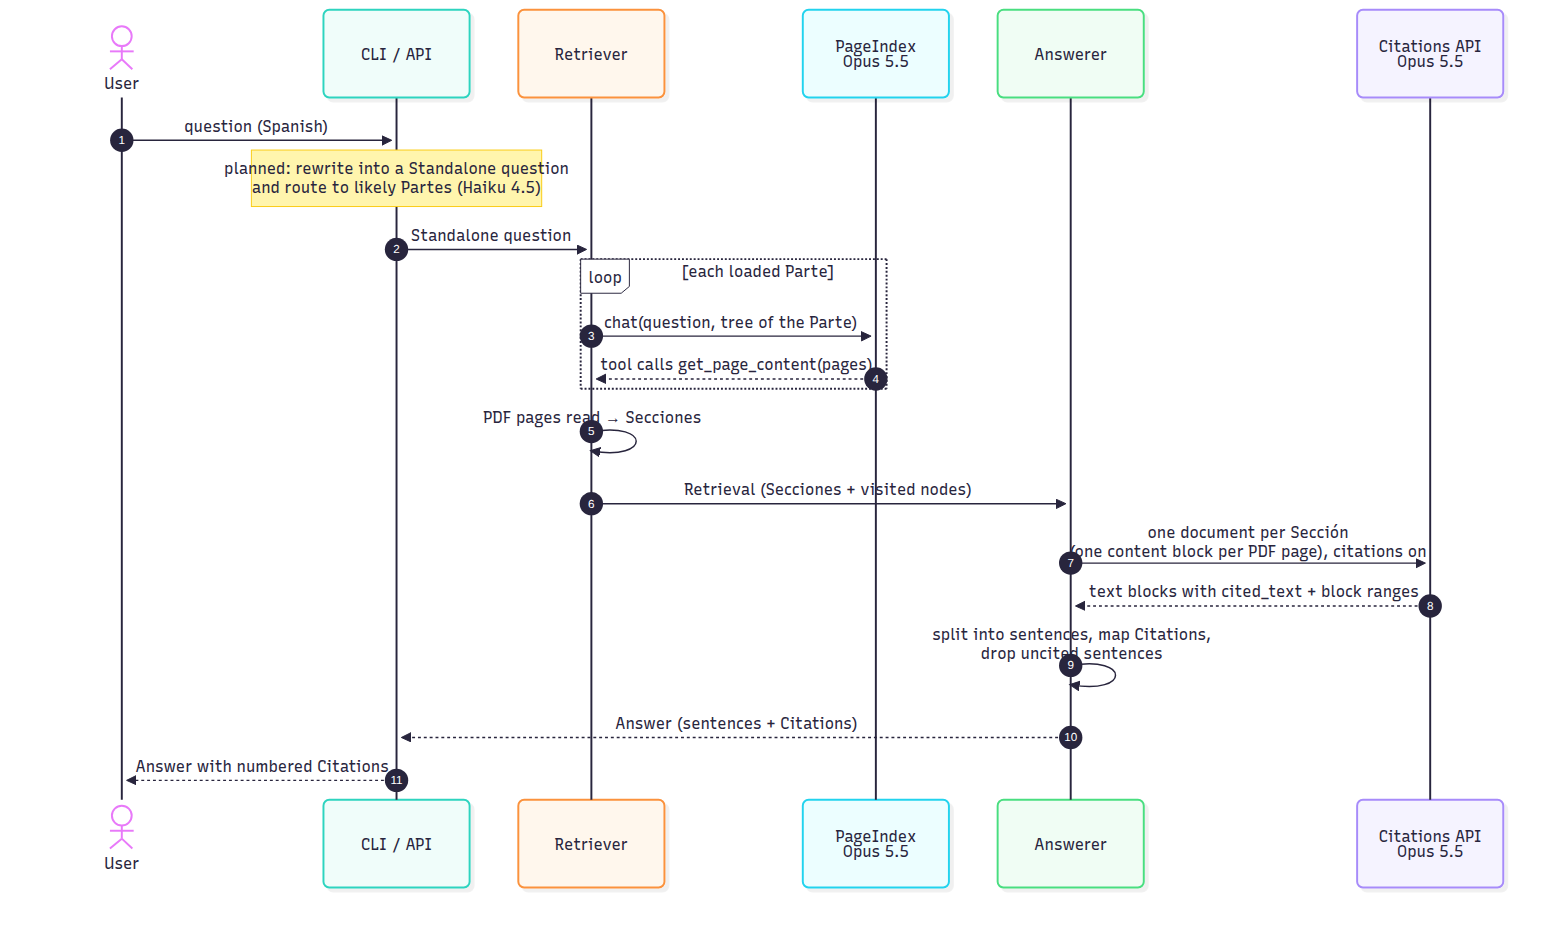
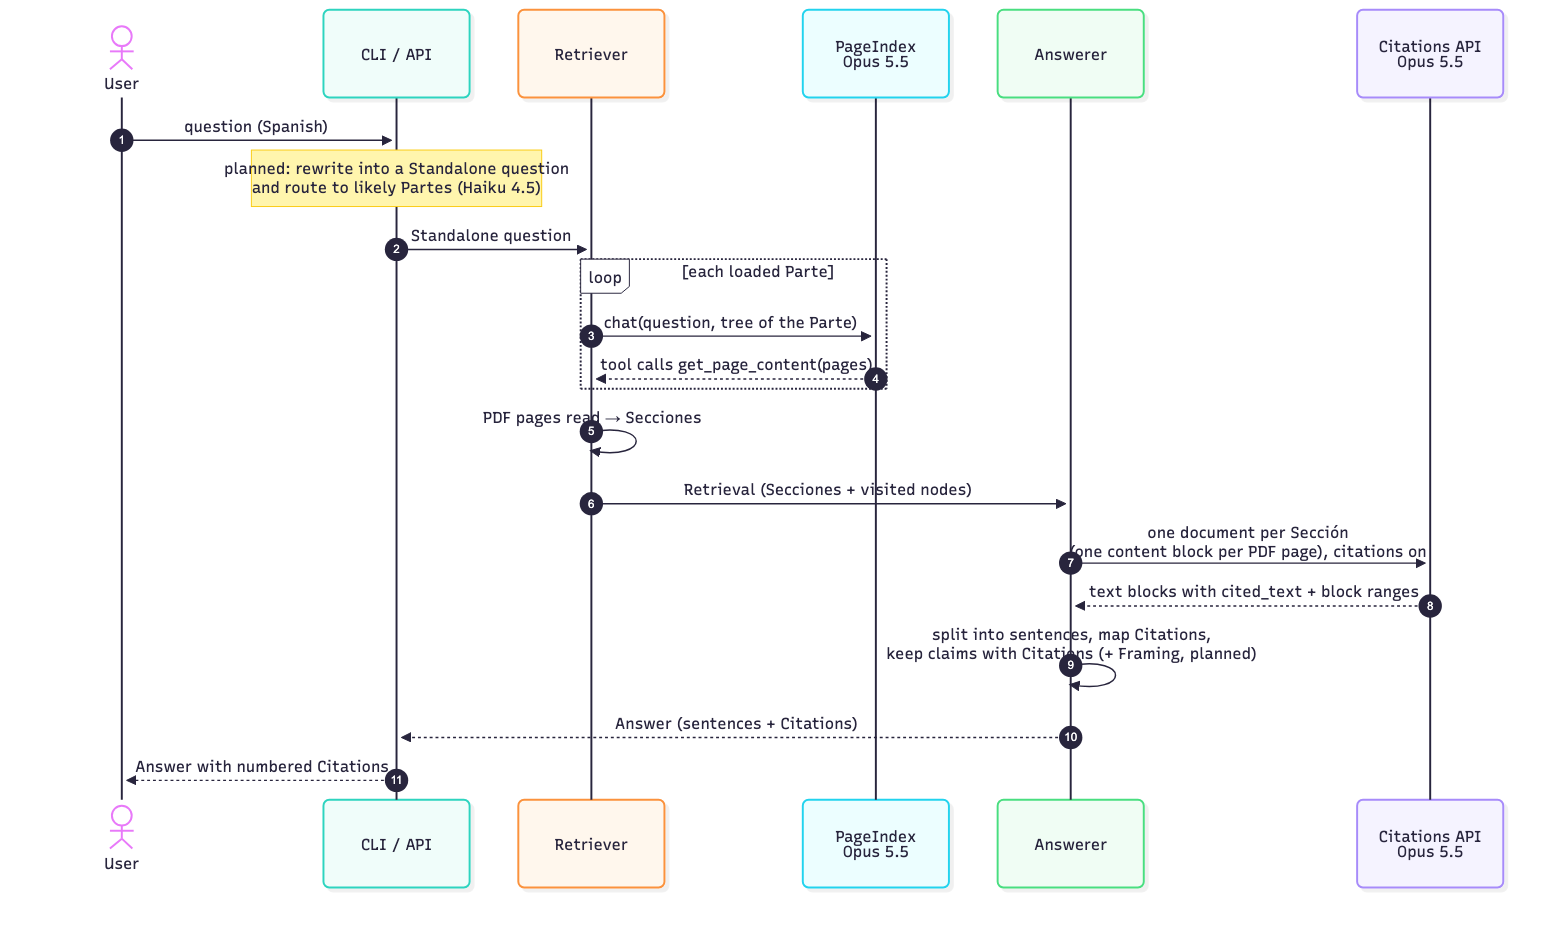
docs: diagrams reflect ADR 0003 Framing, coverage line and raac eval

diff --git a/README.md b/README.md
@@ -11,7 +11,7 @@ Not an official source. It does not replace AIP, NOTAMs or ANAC.
 
 ## Status
 
-Today the pipeline runs end to end from the command line (`raac fetch`, `raac ask`) over Parte 61, caching PDFs and PageIndex trees under `.raac/`. The web API, object storage, frontend, Postgres registry and automatic promotion of new Enmiendas are planned. The diagrams below mark planned pieces with dashed borders. Their Mermaid sources are in [`docs/diagrams/`](docs/diagrams/); after editing one, re-render the images with `just diagrams`.
+Today the pipeline runs end to end from the command line (`raac fetch`, `raac ask`, `raac eval`) over Parte 61, caching PDFs and PageIndex trees under `.raac/`. The web API, object storage, frontend, Postgres registry and automatic promotion of new Enmiendas are planned. The diagrams below mark planned pieces with dashed borders. Their Mermaid sources are in [`docs/diagrams/`](docs/diagrams/); after editing one, re-render the images with `just diagrams`.
 
 ## High-level architecture
 
@@ -41,7 +41,7 @@ Each retrieved Sección is sent as its own document whose content blocks are its
 
 ## Grounded or silent
 
-Every sentence shown carries a Citation. This is how the Answerer decides what to show:
+Every claim shown carries a Citation; only Framing (a lead-in, a connective, a sí/no/depende verdict) may go uncited ([ADR 0003](docs/adr/0003-uncited-framing-in-answers.md)). This is how the Answerer decides what to show; the dashed steps are planned in #38, and until then every uncited sentence is dropped:
 
 <p align="center"><img src="docs/diagrams/grounding.png" alt="Grounded or silent: what the Answerer shows" width="480"></p>
 
